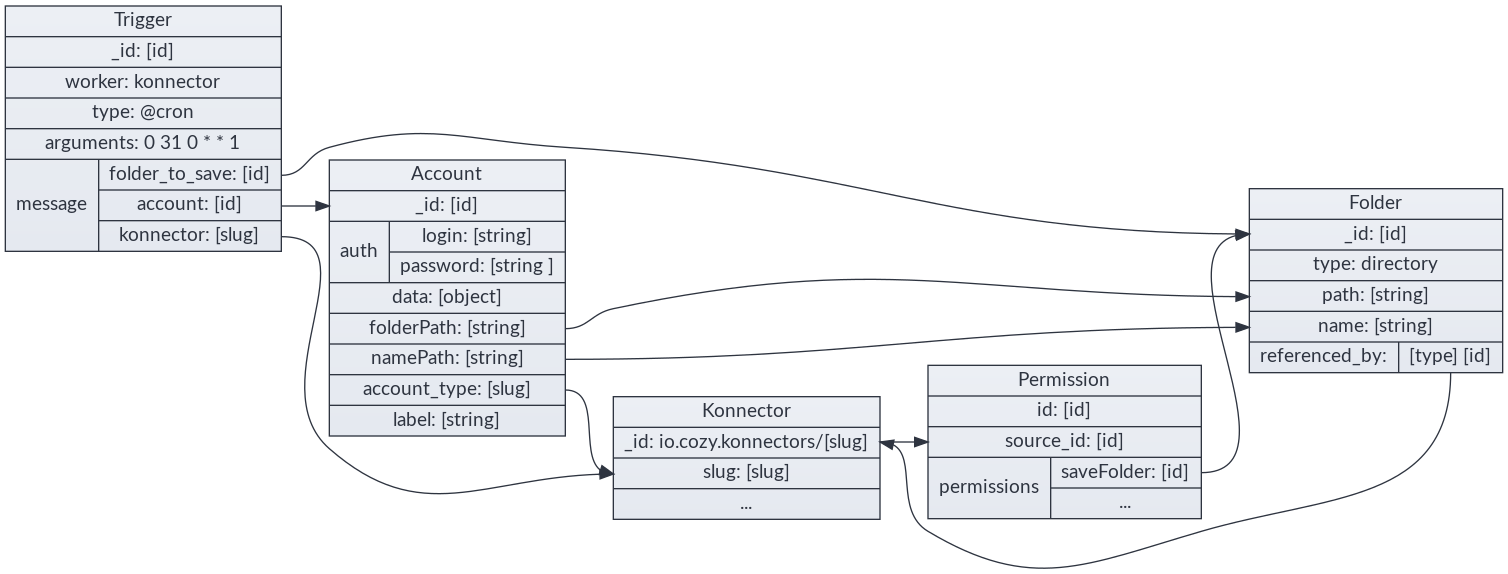
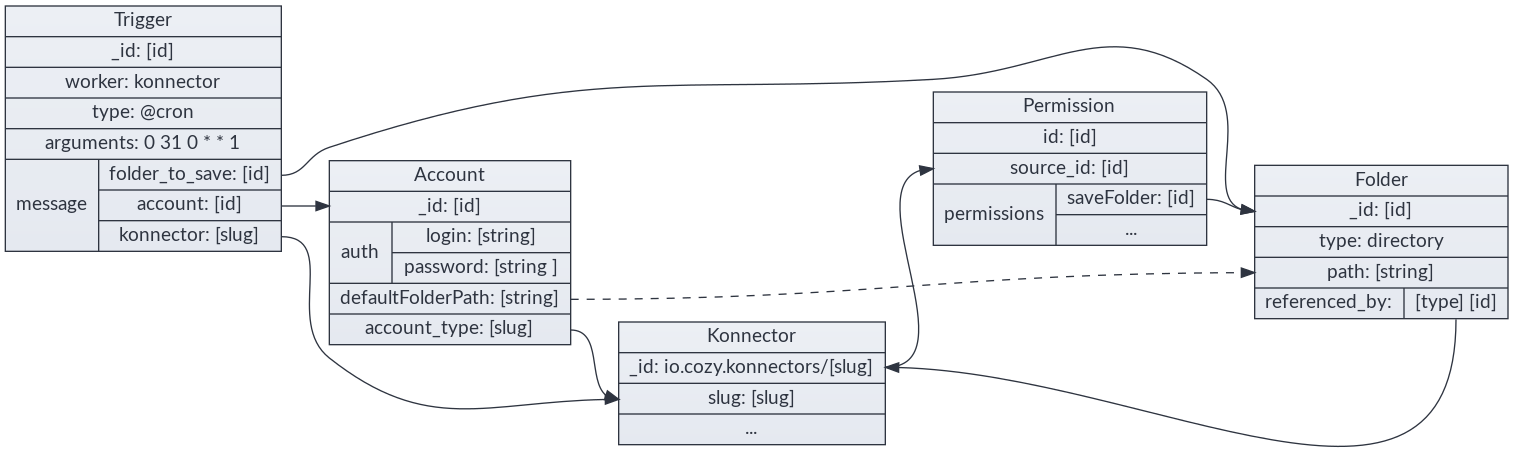
Improve how the folder for konnectors is recreated (#2307)
When a konnector needs a folder to put files, this folder can be created
by harvest with a specific name, and its ID is saved in the trigger. If
this folder is moved, the ID allows to find it again. But if the folder
is deleted, the stack needs to recreate the folder, and update the
trigger with the new ID. There is also some other things, liking putting
a reference on the folder to the konnector, and executing the konnector
with the updated folder. The name of this folder is taken from the
defaultFolderName of the account, but if it is empty, it can be the
folderName attribute (for legacy reasons) or a name can be computed from
the konnector slug.

diff --git a/worker/exec/konnector.go b/worker/exec/konnector.go
@@ -10,7 +10,6 @@ import (
 	"path"
 	"strconv"
 	"strings"
-	"time"
 
 	"github.com/cozy/cozy-stack/model/account"
 	"github.com/cozy/cozy-stack/model/app"
@@ -69,12 +68,33 @@ func (m *KonnectorMessage) ToJSON() string {
 	return string(m.data)
 }
 
-func (m *KonnectorMessage) updateFolderToSave(dir string) {
+// updateFolderToSave updates the message with the new dirID, and also the trigger
+func (m *KonnectorMessage) updateFolderToSave(inst *instance.Instance, dir string) {
 	m.FolderToSave = dir
 	var d map[string]interface{}
 	_ = json.Unmarshal(m.data, &d)
 	d["folder_to_save"] = dir
 	m.data, _ = json.Marshal(d)
+
+	couchdb.ForeachDocs(inst, consts.Triggers, func(_ string, data json.RawMessage) error {
+		var infos *job.TriggerInfos
+		if err := json.Unmarshal(data, &infos); err != nil {
+			return err
+		}
+		var msg map[string]interface{}
+		if err := json.Unmarshal(infos.Message, &msg); err != nil {
+			return err
+		}
+		if msg["account"] != m.Account || msg["konnector"] != m.Konnector {
+			return nil
+		}
+		msg["folder_to_save"] = dir
+		var err error
+		if infos.Message, err = json.Marshal(msg); err != nil {
+			return err
+		}
+		return couchdb.UpdateDoc(inst, infos)
+	})
 }
 
 func jobHookErrorCheckerKonnector(err error) bool {
@@ -234,71 +254,18 @@ func (w *konnectorWorker) ensureFolderToSave(ctx *job.WorkerContext, inst *insta
 	fs := inst.VFS()
 	msg := w.msg
 
-	var normalizedFolderPath string
-	if acc != nil {
-		admin := inst.Translate("Tree Administrative")
-		r := strings.NewReplacer("&", "_", "/", "_", "\\", "_", "#", "_",
-			",", "_", "+", "_", "(", "_", ")", "_", "$", "_", "@", "_", "~",
-			"_", "%", "_", ".", "_", "'", "_", "\"", "_", ":", "_", "*", "_",
-			"?", "_", "<", "_", ">", "_", "{", "_", "}", "_")
-		accountName := r.Replace(acc.Name)
-		normalizedFolderPath = fmt.Sprintf("/%s/%s/%s", admin, strings.Title(w.slug), accountName)
-
-		// This is code to handle legacy: if the konnector does not actually require
-		// a directory (for instance because it does not upload files), but a folder
-		// has been created in the past by the stack which is still empty, then we
-		// delete it.
-		if msg.FolderToSave == "" && acc.FolderPath == "" && (acc.Basic == nil || acc.Basic.FolderPath == "") {
-			if dir, errp := fs.DirByPath(normalizedFolderPath); errp == nil {
-				if acc.Name == "" {
-					innerDirPath := path.Join(normalizedFolderPath, strings.Title(w.slug))
-					if innerDir, errp := fs.DirByPath(innerDirPath); errp == nil {
-						if isEmpty, _ := innerDir.IsEmpty(fs); isEmpty {
-							w.Logger(ctx).Warnf("Deleting empty directory for konnector: %q:%q", innerDir.ID(), normalizedFolderPath)
-							_ = fs.DeleteDirDoc(innerDir)
-						}
-					}
-				}
-				if isEmpty, _ := dir.IsEmpty(fs); isEmpty {
-					w.Logger(ctx).Warnf("Deleting empty directory for konnector: %q:%q", dir.ID(), normalizedFolderPath)
-					_ = fs.DeleteDirDoc(dir)
-				}
-			}
-		}
+	if msg.FolderToSave == "" {
+		return nil
 	}
 
 	// 1. Check if the folder identified by its ID exists
-	if msg.FolderToSave != "" {
-		dir, err := fs.DirByID(msg.FolderToSave)
-		if err == nil {
-			if !strings.HasPrefix(dir.Fullpath, vfs.TrashDirName) {
-				if len(dir.ReferencedBy) == 0 {
-					dir.AddReferencedBy(couchdb.DocReference{
-						Type: consts.Konnectors,
-						ID:   consts.Konnectors + "/" + w.slug,
-					})
-					now := time.Now()
-					if dir.CozyMetadata == nil {
-						dir.CozyMetadata = vfs.NewCozyMetadata(inst.PageURL("/", nil))
-						now = dir.CozyMetadata.CreatedAt
-					} else {
-						dir.CozyMetadata.UpdatedAt = now
-					}
-					if dir.CozyMetadata.CreatedByApp == "" {
-						dir.CozyMetadata.CreatedByApp = w.slug
-					}
-					dir.CozyMetadata.UpdatedByApp(&metadata.UpdatedByAppEntry{
-						Slug:     w.slug,
-						Date:     now,
-						Instance: inst.PageURL("/", nil),
-					})
-					_ = couchdb.UpdateDoc(inst, dir)
-				}
-				return nil
-			}
-		} else if !os.IsNotExist(err) {
-			return err
+	dir, err := fs.DirByID(msg.FolderToSave)
+	if err == nil {
+		if !strings.HasPrefix(dir.Fullpath, vfs.TrashDirName) {
+			return nil
 		}
+	} else if !os.IsNotExist(err) {
+		return err
 	}
 
 	// 2. Check if the konnector has a reference to a folder
@@ -315,6 +282,7 @@ func (w *konnectorWorker) ensureFolderToSave(ctx *job.WorkerContext, inst *insta
 		dirID := ""
 		for _, row := range res.Rows {
 			dir := &vfs.DirDoc{}
+			fmt.Printf("row = %v\n", row)
 			if err := couchdb.GetDoc(inst, consts.Files, row.ID, dir); err == nil {
 				if !strings.HasPrefix(dir.Fullpath, vfs.TrashDirName) {
 					count++
@@ -323,7 +291,7 @@ func (w *konnectorWorker) ensureFolderToSave(ctx *job.WorkerContext, inst *insta
 			}
 		}
 		if count == 1 {
-			msg.updateFolderToSave(dirID)
+			msg.updateFolderToSave(inst, dirID)
 			return nil
 		}
 	}
@@ -332,26 +300,27 @@ func (w *konnectorWorker) ensureFolderToSave(ctx *job.WorkerContext, inst *insta
 	if acc == nil {
 		return nil
 	}
-	if msg.FolderToSave == "" && acc.FolderPath == "" && (acc.Basic == nil || acc.Basic.FolderPath == "") {
-		return nil
-	}
 
-	// 4. Recreate the folder
-	folderPath := acc.FolderPath
-	if folderPath == "" && acc.Basic != nil {
-		folderPath = acc.Basic.FolderPath
+	// 4. Find a name for the folder
+	folderPath := acc.DefaultFolderPath
+	if folderPath == "" {
+		folderPath = acc.FolderPath
 	}
 	if folderPath == "" {
-		folderPath = normalizedFolderPath
+		folderPath = computeFolderPath(inst, w.slug, acc)
 	}
 
-	dir, err := vfs.MkdirAll(fs, folderPath)
+	// 5. Try to recreate the folder
+	dir, err = vfs.MkdirAll(fs, folderPath)
 	if err != nil {
-		log := inst.Logger().WithField("nspace", "konnector")
-		log.Warnf("Can't create the default folder %s: %s", folderPath, err)
-		return err
+		dir, err = fs.DirByPath(folderPath)
+		if err != nil {
+			log := inst.Logger().WithField("nspace", "konnector")
+			log.Warnf("Can't create the default folder %s: %s", folderPath, err)
+			return err
+		}
 	}
-	msg.updateFolderToSave(dir.ID())
+	msg.updateFolderToSave(inst, dir.ID())
 	if len(dir.ReferencedBy) == 0 {
 		dir.AddReferencedBy(couchdb.DocReference{
 			Type: consts.Konnectors,
@@ -373,6 +342,16 @@ func (w *konnectorWorker) ensureFolderToSave(ctx *job.WorkerContext, inst *insta
 		_ = couchdb.UpdateDoc(inst, dir)
 	}
 	return nil
+}
+
+func computeFolderPath(inst *instance.Instance, slug string, acc *account.Account) string {
+	admin := inst.Translate("Tree Administrative")
+	r := strings.NewReplacer("&", "_", "/", "_", "\\", "_", "#", "_",
+		",", "_", "+", "_", "(", "_", ")", "_", "$", "_", "@", "_", "~",
+		"_", "%", "_", ".", "_", "'", "_", "\"", "_", ":", "_", "*", "_",
+		"?", "_", "<", "_", ">", "_", "{", "_", "}", "_")
+	accountName := r.Replace(acc.Name)
+	return fmt.Sprintf("/%s/%s/%s", admin, strings.Title(slug), accountName)
 }
 
 // ensurePermissions checks that the konnector has the permissions to write

diff --git a/model/account/accounts.go b/model/account/accounts.go
@@ -17,16 +17,17 @@ import (
 
 // Account holds configuration information for an account
 type Account struct {
-	DocID         string                 `json:"_id,omitempty"`
-	DocRev        string                 `json:"_rev,omitempty"`
-	Name          string                 `json:"name"`
-	AccountType   string                 `json:"account_type"`
-	FolderPath    string                 `json:"folderPath,omitempty"`
-	Basic         *BasicInfo             `json:"auth,omitempty"`
-	Oauth         *OauthInfo             `json:"oauth,omitempty"`
-	Extras        map[string]interface{} `json:"oauth_callback_results,omitempty"`
-	Relationships map[string]interface{} `json:"relationships,omitempty"`
-	Metadata      *metadata.CozyMetadata `json:"cozyMetadata,omitempty"`
+	DocID             string                 `json:"_id,omitempty"`
+	DocRev            string                 `json:"_rev,omitempty"`
+	Name              string                 `json:"name"`
+	AccountType       string                 `json:"account_type"`
+	DefaultFolderPath string                 `json:"defaultFolderPath,omitempty"`
+	FolderPath        string                 `json:"folderPath,omitempty"` // Legacy
+	Basic             *BasicInfo             `json:"auth,omitempty"`
+	Oauth             *OauthInfo             `json:"oauth,omitempty"`
+	Extras            map[string]interface{} `json:"oauth_callback_results,omitempty"`
+	Relationships     map[string]interface{} `json:"relationships,omitempty"`
+	Metadata          *metadata.CozyMetadata `json:"cozyMetadata,omitempty"`
 	// When an account is deleted, the stack cleans the triggers and calls its
 	// konnector to clean the account remotely (when available). It is done via
 	// a hook on deletion, but when the konnector is removed, this cleaning is
@@ -52,7 +53,6 @@ type BasicInfo struct {
 	Login                string `json:"login,omitempty"`
 	Password             string `json:"password,omitempty"` // used when no encryption
 	EncryptedCredentials string `json:"credentials_encrypted,omitempty"`
-	FolderPath           string `json:"folderPath,omitempty"`
 }
 
 // ID is used to implement the couchdb.Doc interface

diff --git a/worker/exec/konnector_test.go b/worker/exec/konnector_test.go
@@ -348,7 +348,7 @@ echo "{\"type\": \"toto\", \"message\": \"COZY_URL=${COZY_URL}\"}"
 
 	wg.Wait()
 	wg.Add(1)
-	acc := &account.Account{FolderPath: "/Administrative/toto"}
+	acc := &account.Account{DefaultFolderPath: "/Administrative/toto"}
 	assert.NoError(t, couchdb.CreateDoc(inst, acc))
 	defer func() { _ = couchdb.DeleteDoc(inst, acc) }()
 	msg, err := job.NewMessage(map[string]interface{}{
